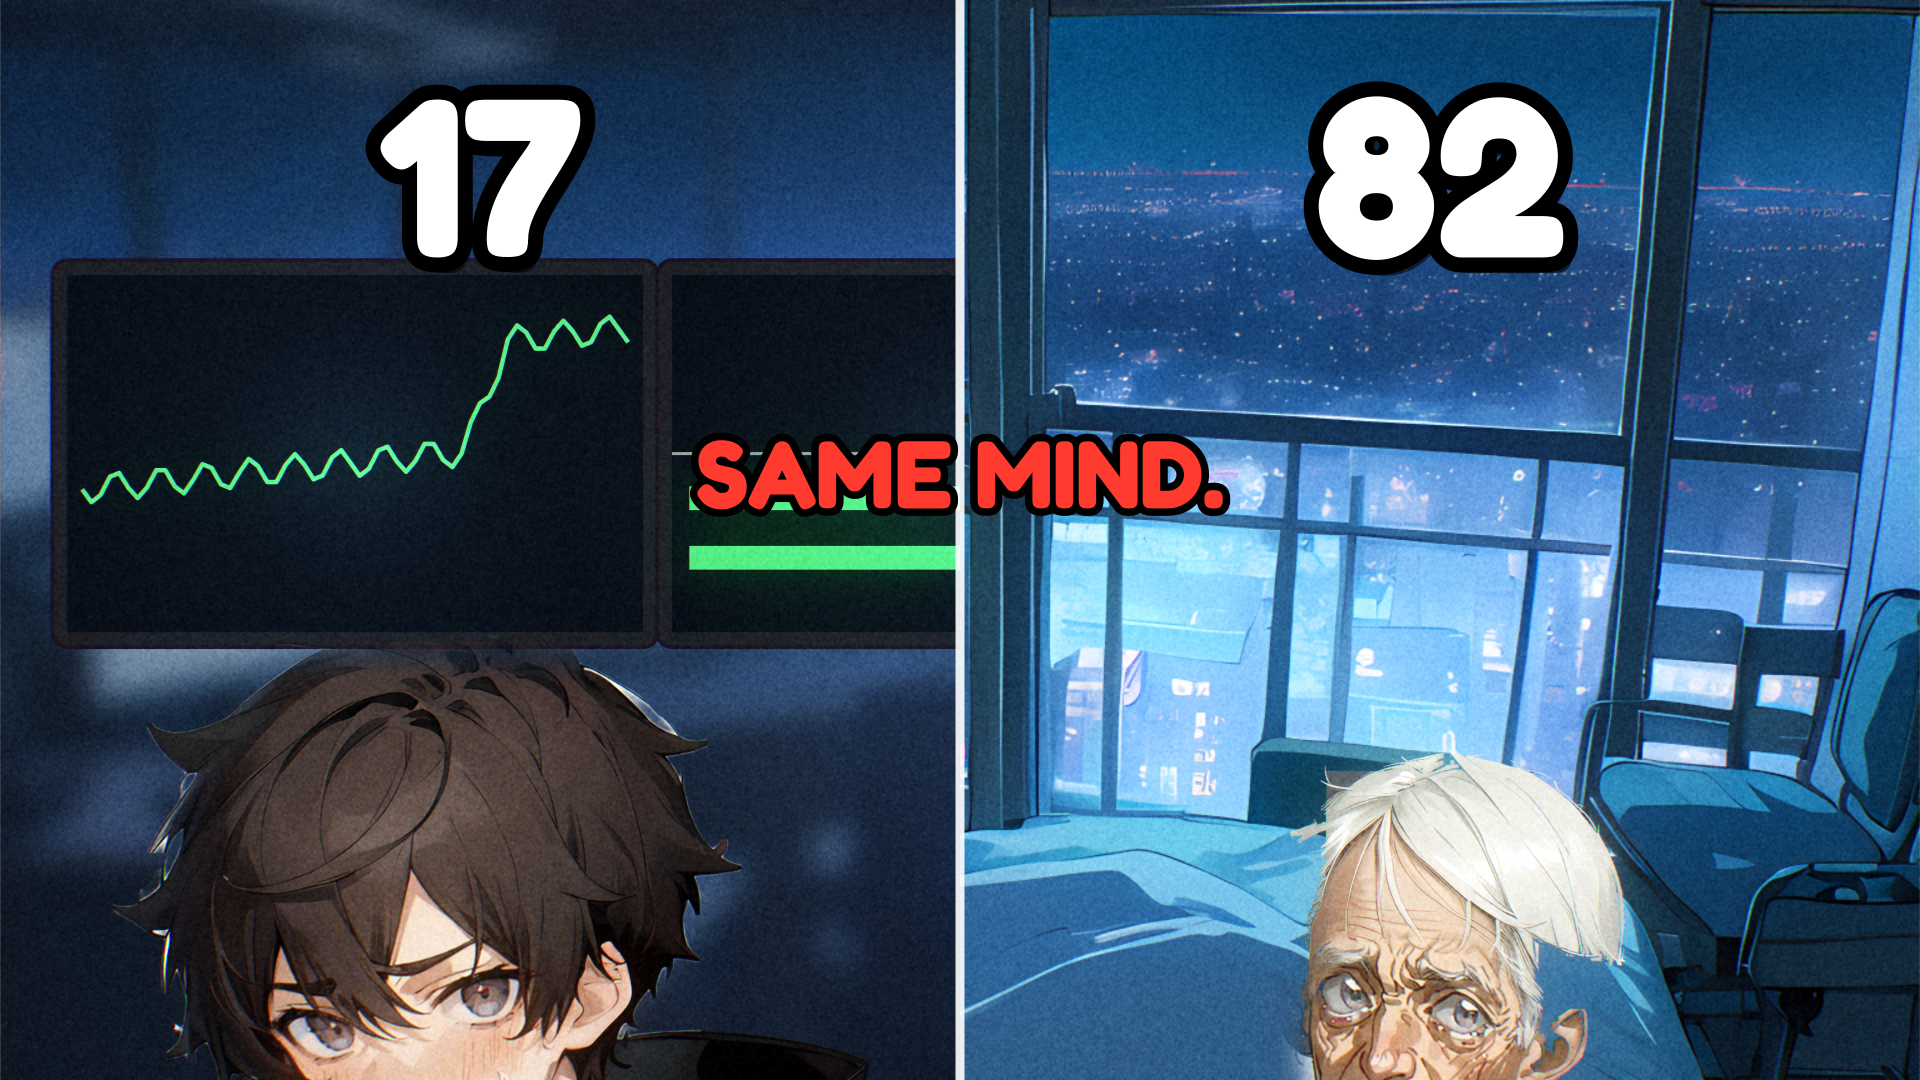
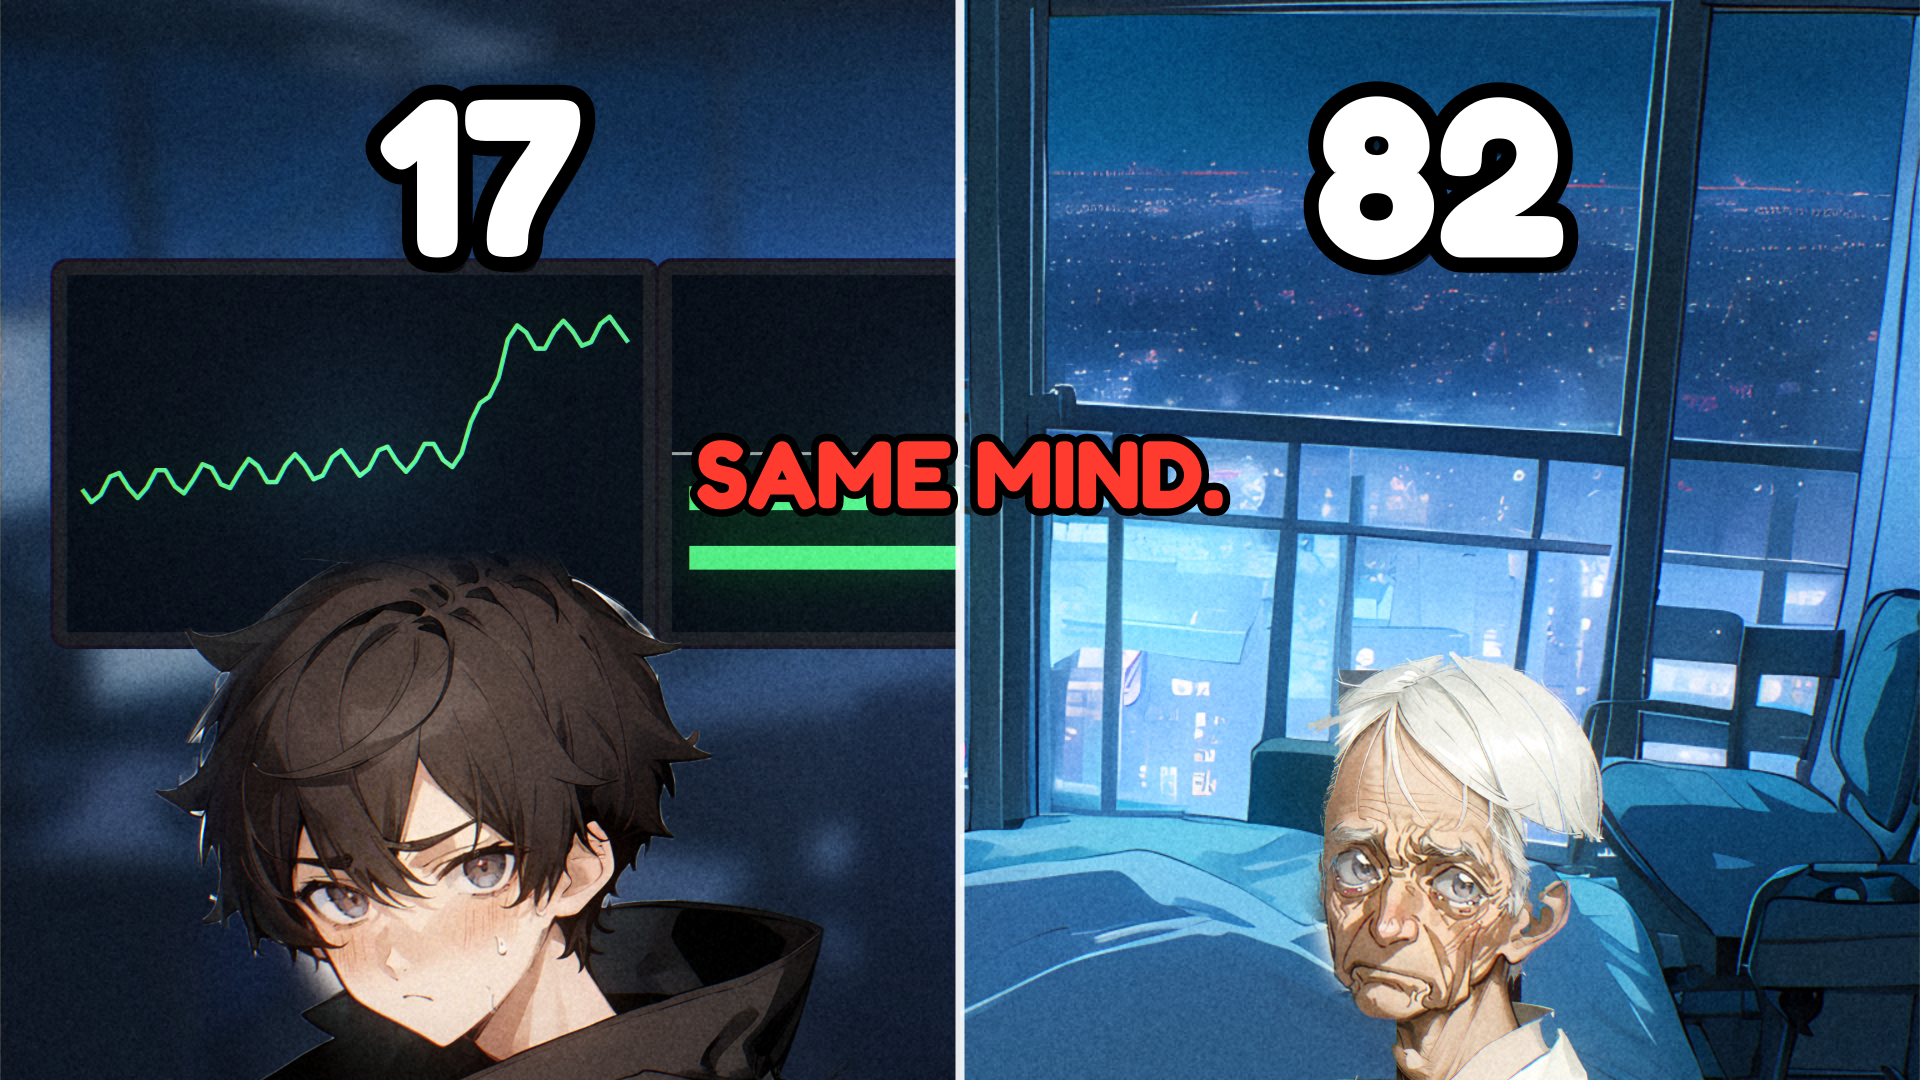
Boy Chapter 1 cover: faces raised
Claude-Session: https://claude.ai/code/session_0153qDV4AufFgT2PhEBEfS8n

Changed region(s): [[0.0625, 0.5194, 0.4688, 1.0], [0.6562, 0.6111, 0.8438, 1.0]]

diff --git a/channels/stories/thumbs.py b/channels/stories/thumbs.py
@@ -118,13 +118,13 @@ def boy_long(cr):
     cr.rectangle(0, 0, W / 2, H)
     cr.clip()
     B.trading_room(cr, t)
-    B.bust(cr, W * 0.25, H * 1.12, 1.3, t, "neil", "fear")
+    B.bust(cr, W * 0.25, H * 0.98, 1.15, t, "neil", "fear")
     cr.restore()
     cr.save()
     cr.rectangle(W / 2, 0, W / 2, H)
     cr.clip()
     B.hospital(cr, t)
-    B.bust(cr, W * 0.75, H * 1.12, 1.3, t, "arthur", "grief")
+    B.bust(cr, W * 0.75, H * 0.98, 1.15, t, "arthur", "grief")
     cr.restore()
     satsuei.apply(cr, t, glow=0.28, ca=1.2, grain=0.03)
     cr.set_source_rgba(1, 1, 1, 0.9)
